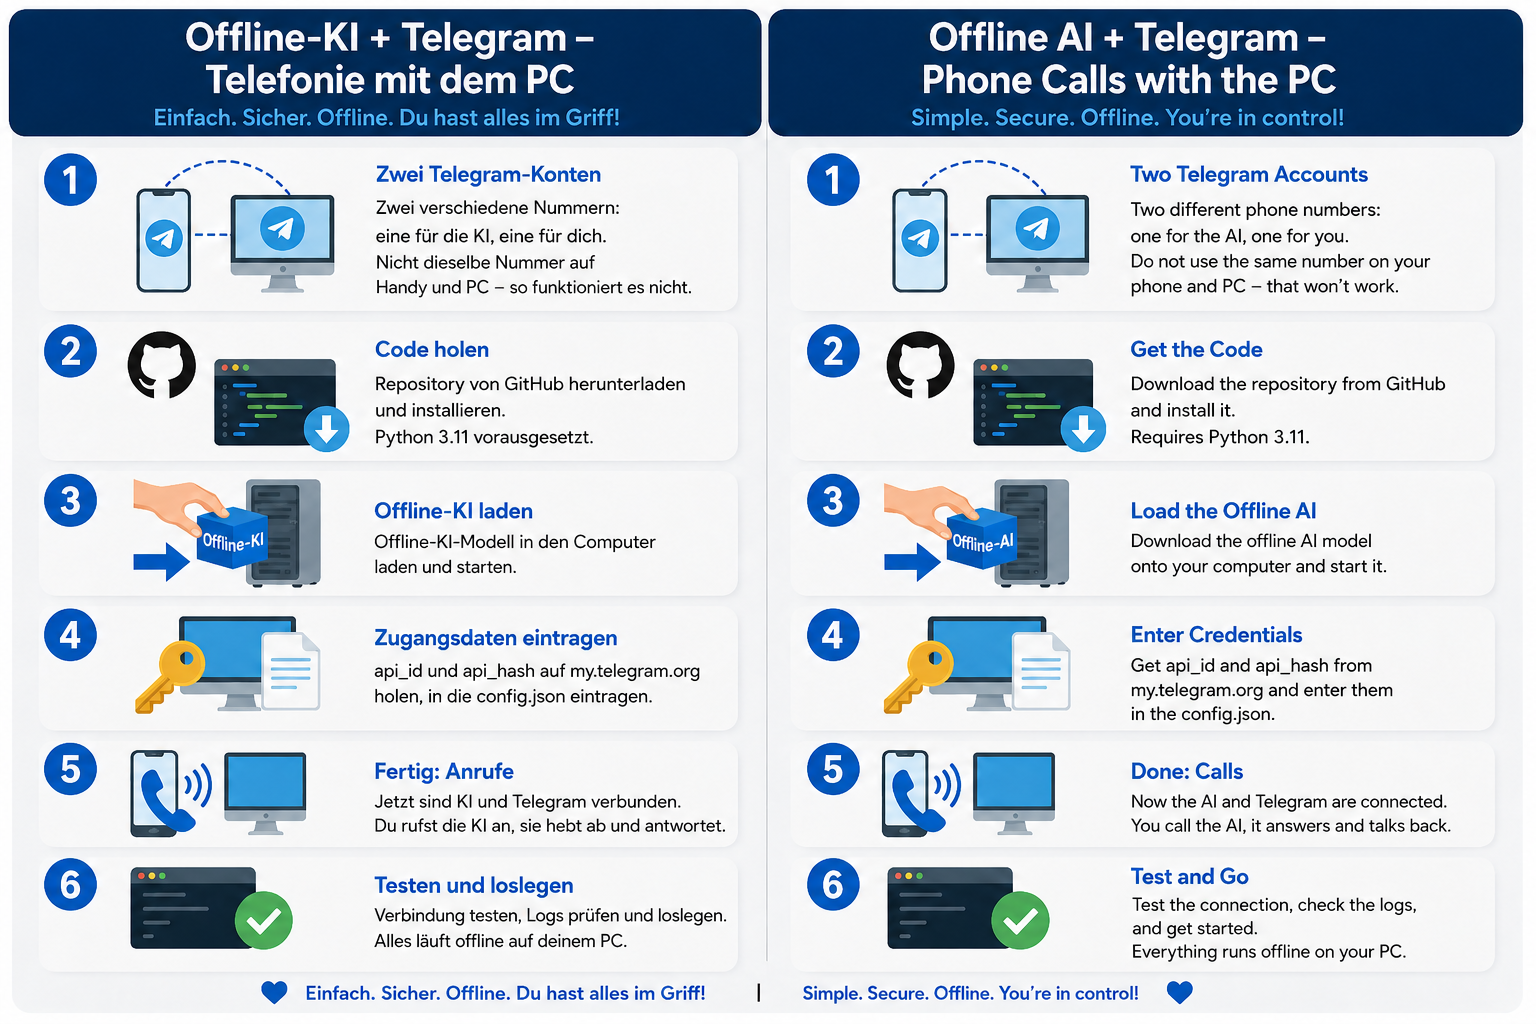
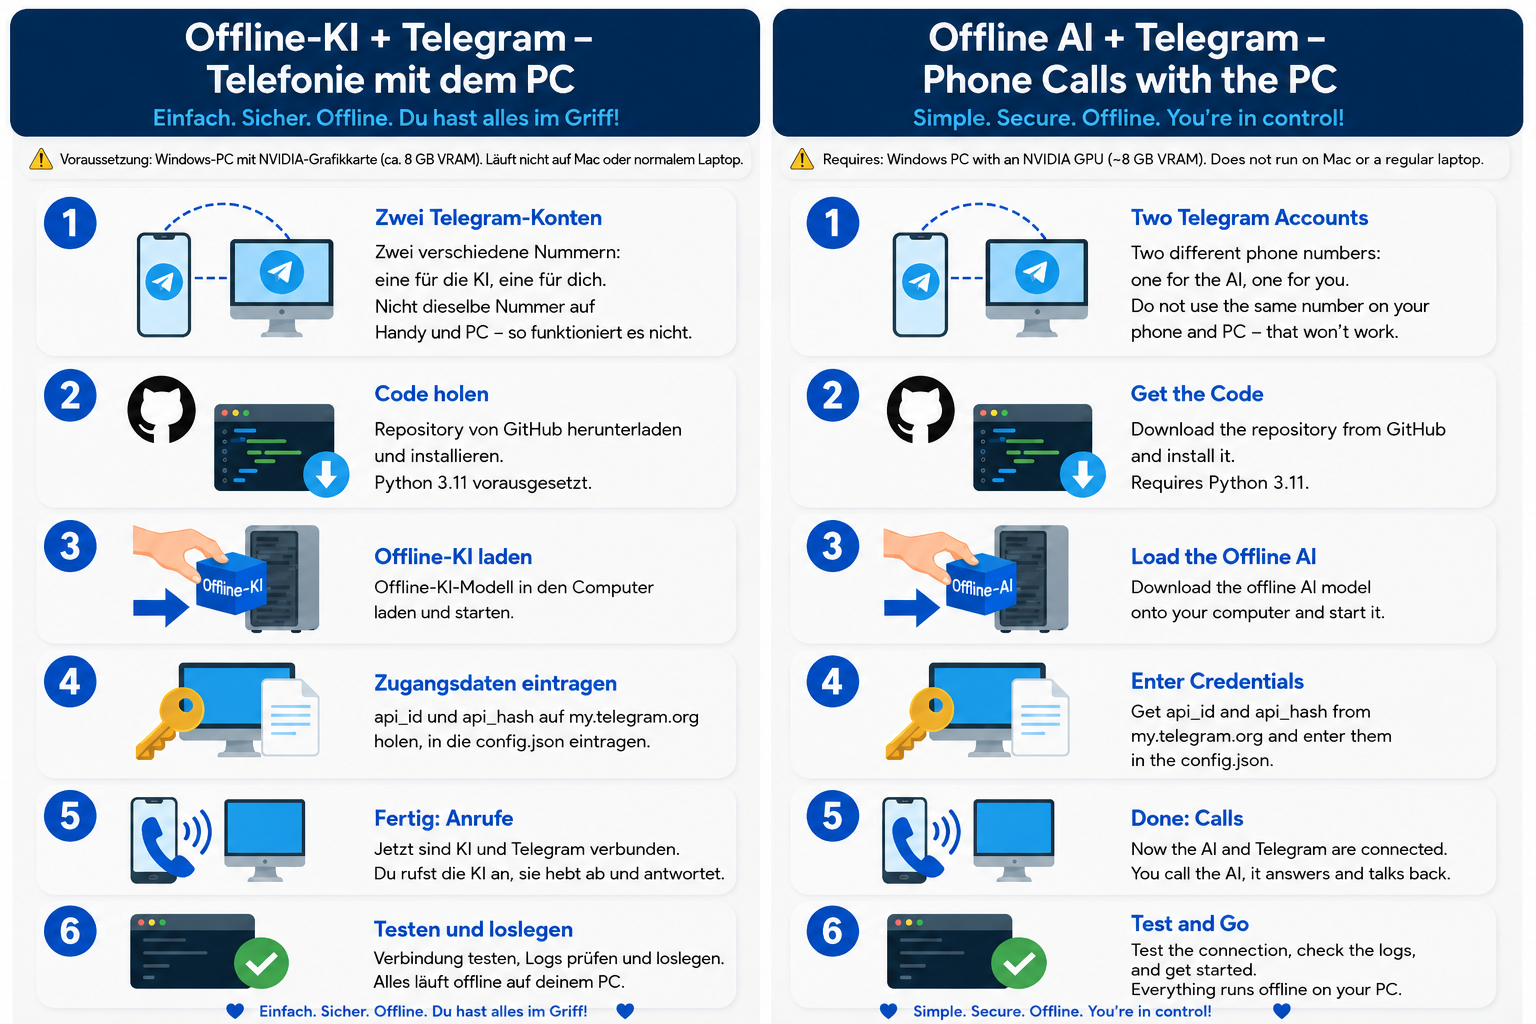
doc: solution-first inbound-audio note, 'tested on 3.11', refreshed quickstart
- Rewrote the ntgcalls#44 note to lead with 'inbound audio works with
  unmodified ntgcalls 2.1.0' and the call-setup ordering; #44 now appears
  at the end as the dead end this ordering avoids (a reviewer read the old
  order as 'hearing does not work').
- Python wording 'Tested on 3.11' (badge/requirements/step) so a 3.12 user
  is not scared off by a bare version number.
- Refreshed quickstart.png: adds the hardware requirement line up top
  (Windows + NVIDIA ~8 GB VRAM, not Mac/laptop).

diff --git a/README.md b/README.md
@@ -4,7 +4,7 @@ A locally running, offline AI – reachable via Telegram voice call (pure voice 
 <img width="192" height="240" alt="image" src="https://github.com/user-attachments/assets/9633a78e-22b6-4487-94c3-5b4ea4cedc5d" />
 
 [![License: AGPL-3.0](https://img.shields.io/badge/License-AGPL--3.0-blue.svg)](LICENSE)
-[![Python 3.11](https://img.shields.io/badge/Python-3.11-blue.svg)](https://www.python.org/)
+[![Tested on Python 3.11](https://img.shields.io/badge/Python-tested%20on%203.11-blue.svg)](https://www.python.org/)
 [![Platform: Windows x64](https://img.shields.io/badge/Platform-Windows%20x64-lightgrey.svg)]()
 [![CUDA: 12.1](https://img.shields.io/badge/CUDA-12.1-76b900.svg)]()
 [![Status: Development](https://img.shields.io/badge/Status-Development-orange.svg)]()
@@ -40,7 +40,7 @@ Default pipeline: inbound PCM is routed through VAD and Whisper, response text i
 | Clean call teardown (no lingering process, verified) | ✅ Working |
 | Out-of-process call worker (process isolation) | ✅ Working |
 
-**About inbound audio and [ntgcalls#44](https://github.com/pytgcalls/ntgcalls/issues/44):** with the naive setup order, ntgcalls 2.1.0 delivers no `on_frames` callbacks for private 1-on-1 P2P calls — that dead end is what the upstream issue describes. It turns out to be avoidable with unmodified ntgcalls 2.1.0 by getting the call-setup sequence right, which this repo implements: set the CAPTURE stream source immediately after `create_p2p_call` (before the key exchange), set the PLAYBACK stream source only **after** `connect_p2p` (on the `microphone` slot — inbound frames arrive as `device=MICROPHONE, mode=PLAYBACK`), then `unmute` + `resume`, and keep a continuous outbound frame stream (silence when idle). With that ordering, inbound frames flow and Whisper transcribes the caller. Verified in daily use in the system this bridge was extracted from.
+**Inbound audio works with unmodified ntgcalls 2.1.0 — the decisive detail is the call-setup ordering.** Set the CAPTURE stream source immediately after `create_p2p_call` (before the key exchange), set the PLAYBACK stream source only **after** `connect_p2p` (on the `microphone` slot — inbound frames arrive as `device=MICROPHONE, mode=PLAYBACK`), then `unmute` + `resume`, and keep a continuous outbound frame stream (silence when idle). With that ordering, `on_frames` delivers the caller's audio and Whisper transcribes it — verified in daily use in the system this bridge was extracted from. What this ordering avoids is the dead end described in [ntgcalls#44](https://github.com/pytgcalls/ntgcalls/issues/44): with the *naive* setup order, ntgcalls 2.1.0 delivers no `on_frames` callbacks for private 1-on-1 P2P calls. Get the sequence right and it does.
 
 **Note on XTTS speech-out:** use XTTS `inference()`, not `inference_stream()` — the streaming path is broken with `transformers` 4.46.3 (it raises `'int' object has no attribute 'device'`). The non-streaming call works and the outbound loop paces the result into 10 ms frames.
 
@@ -104,7 +104,7 @@ flowchart LR
 
 - Windows x86_64
 - NVIDIA GPU with CUDA 12.1 (tested on RTX 3070, 8 GB VRAM)
-- Python 3.11 (what this was built and verified on)
+- Tested on Python 3.11 (newer versions likely work; 3.11 is what this was verified on)
 - Telegram account with `api_id` / `api_hash` from [my.telegram.org/apps](https://my.telegram.org/apps)
 
 ---
@@ -203,7 +203,7 @@ Install Telegram on your phone with a second SIM / spare number. This account wi
 
 Go to `my.telegram.org/apps`, log in with the spare account's number, and create an app. Note down `api_id` and `api_hash`.
 
-### Step 3 — Install Python 3.11
+### Step 3 — Install Python (tested on 3.11)
 
 From python.org. During installation, tick "Add Python to PATH".
 
